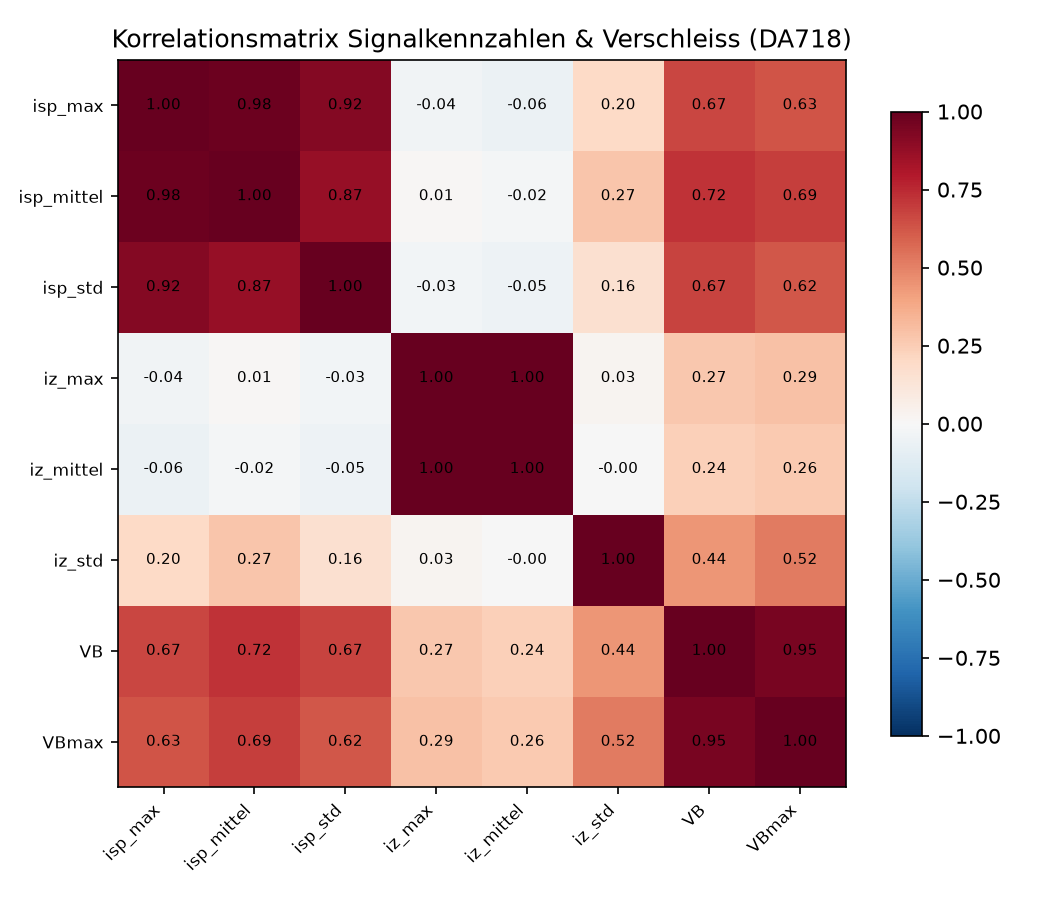
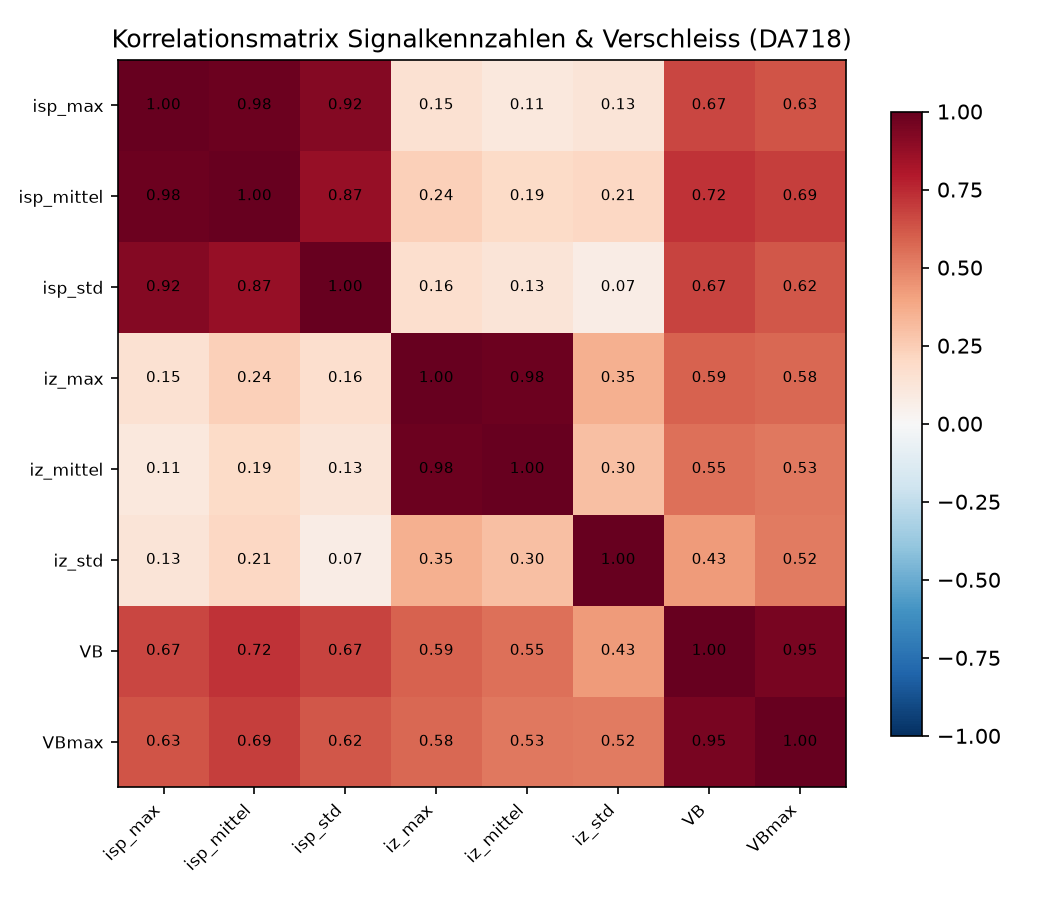
Fix known data artifact: null out iz signals for Scheibe1/WZ7 at Bohrung 2+14
Lochkreis-Wechsel during recording corrupted iz_max/iz_mittel/iz_std for
these two measurement points; VB/VBmax remain valid. Correlation of iz
signals with wear improved substantially after the fix (r=0.27->0.59).

diff --git a/scripts/import_data.py b/scripts/import_data.py
@@ -62,6 +62,19 @@ def main():
     long_df = pd.concat(frames, ignore_index=True)
     long_df = long_df.rename(columns={"vb_avg": "VB", "vbmax": "VBmax"})
 
+    # Bekannter Datenfehler: Scheibe 1, Werkzeug 7, Bohrung 2 und 14 - waehrend
+    # dieser Bohrungen fand ein Lochkreis-Wechsel auf derselben Scheibe statt,
+    # wodurch die iz-Kennzahlen (Vorschubachsenstrom) verfaelscht aufgezeichnet
+    # wurden (isp-Kennzahlen sind davon nicht betroffen). VB/VBmax bleiben
+    # gueltige Verschleissmessungen des Werkzeugs und werden nicht veraendert.
+    iz_cols = ["iz_max", "iz_mittel", "iz_std"]
+    bad = (
+        (long_df["scheibe_id"] == 1)
+        & (long_df["werkzeug_id"] == 7)
+        & (long_df["bohrung_nr"].isin([2, 14]))
+    )
+    long_df.loc[bad, iz_cols] = pd.NA
+
     long_df = long_df[[
         "scheibe_id", "lochkreis", "werkstoff", "werkzeug_id", "bohrung_nr",
         "VB", "VBmax",

diff --git a/scripts/eda.py b/scripts/eda.py
@@ -55,7 +55,7 @@ def main():
         for j, w in enumerate(WEAR):
             ax = axes[i, j]
             ax.scatter(da[sig], da[w], s=12, alpha=0.6, c=da["scheibe_id"], cmap="viridis")
-            r = np.corrcoef(da[sig], da[w])[0, 1]
+            r = da[sig].corr(da[w])
             ax.set_title(f"{sig} vs {w}  (r={r:.2f})", fontsize=9)
             ax.set_xlabel(sig, fontsize=8)
             ax.set_ylabel(w, fontsize=8)
